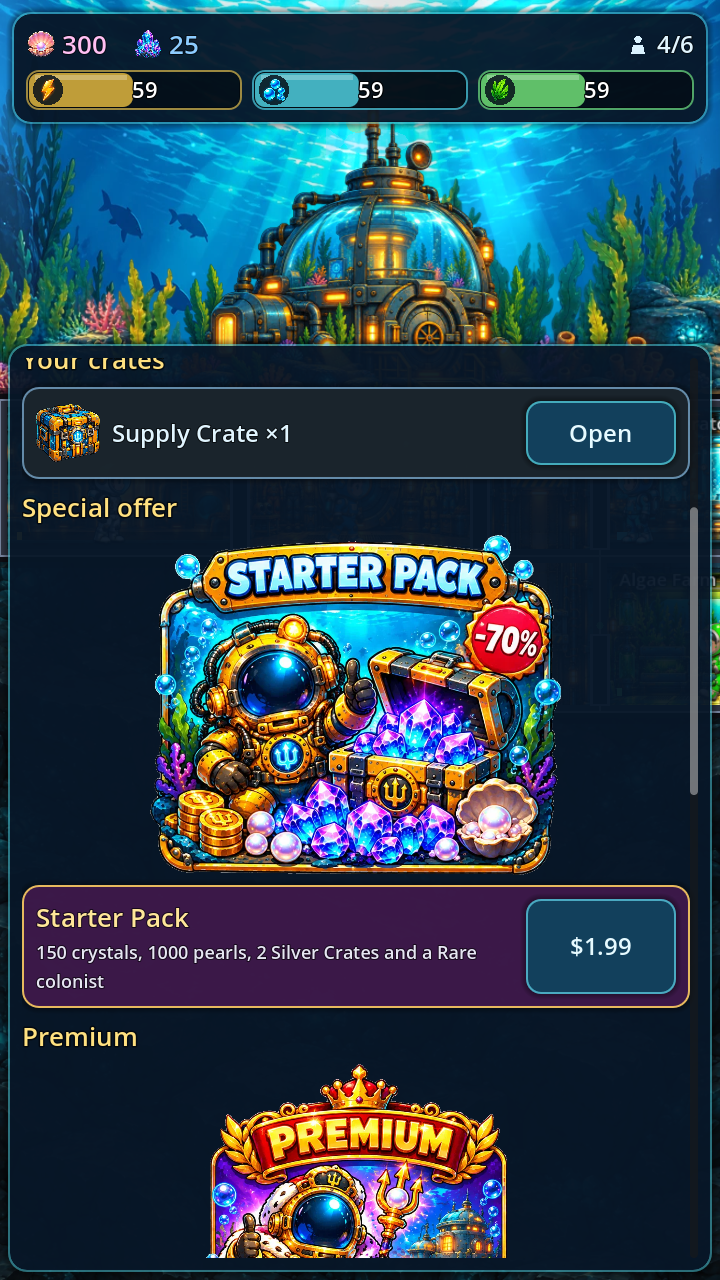
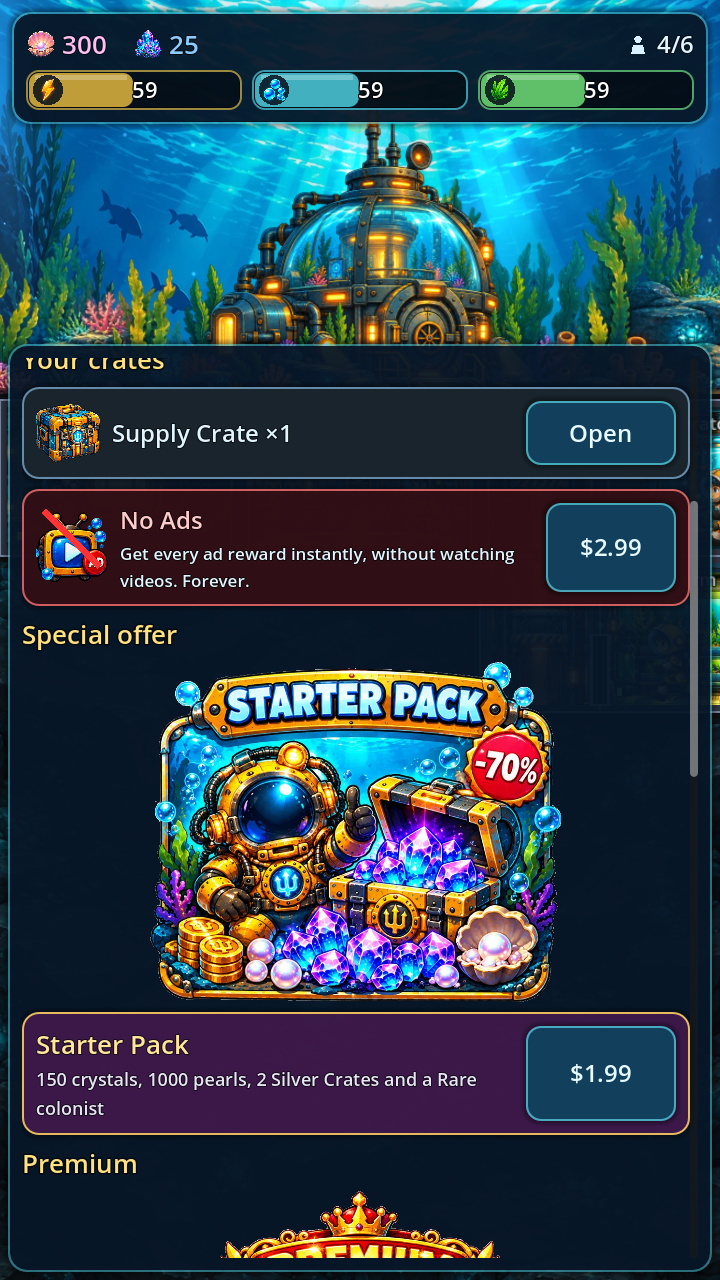
Покупка No Ads и новый набор из 12 UI-иконок
No Ads ($2.99) выдаёт награды за рекламу сразу; Premium включает его.
Иконки на всех кнопках нижней панели и на кнопке экспедиции.

Claude-Session: https://claude.ai/code/session_01Gzv6rseeD6rLRgwoFsQ4fS

diff --git a/README.md b/README.md
@@ -38,7 +38,7 @@
 - Вторая валюта **кристаллы**: безопасное ускорение, ящики, жемчуг.
 - Ящики припасов (обычный / серебряный / золотой) с показанными шансами.
 - Ежедневная награда (7-дневная серия), бесплатный ящик раз в 4 часа за рекламу, ×2 сбор на 30 минут за рекламу.
-- Наборы: стартовый ($1.99), Premium ($4.99), кристаллы $0.99–$99.99.
+- Наборы: стартовый ($1.99), No Ads ($2.99), Premium ($4.99, включает No Ads и капитана), кристаллы $0.99–$99.99.
 - `scripts/store.gd`: `DEV_MODE = true` — покупки бесплатны, реклама — заглушка. Для релиза подключить
   Google Play Billing, StoreKit (InAppStore) и AdMob, места помечены `TODO`.
 
